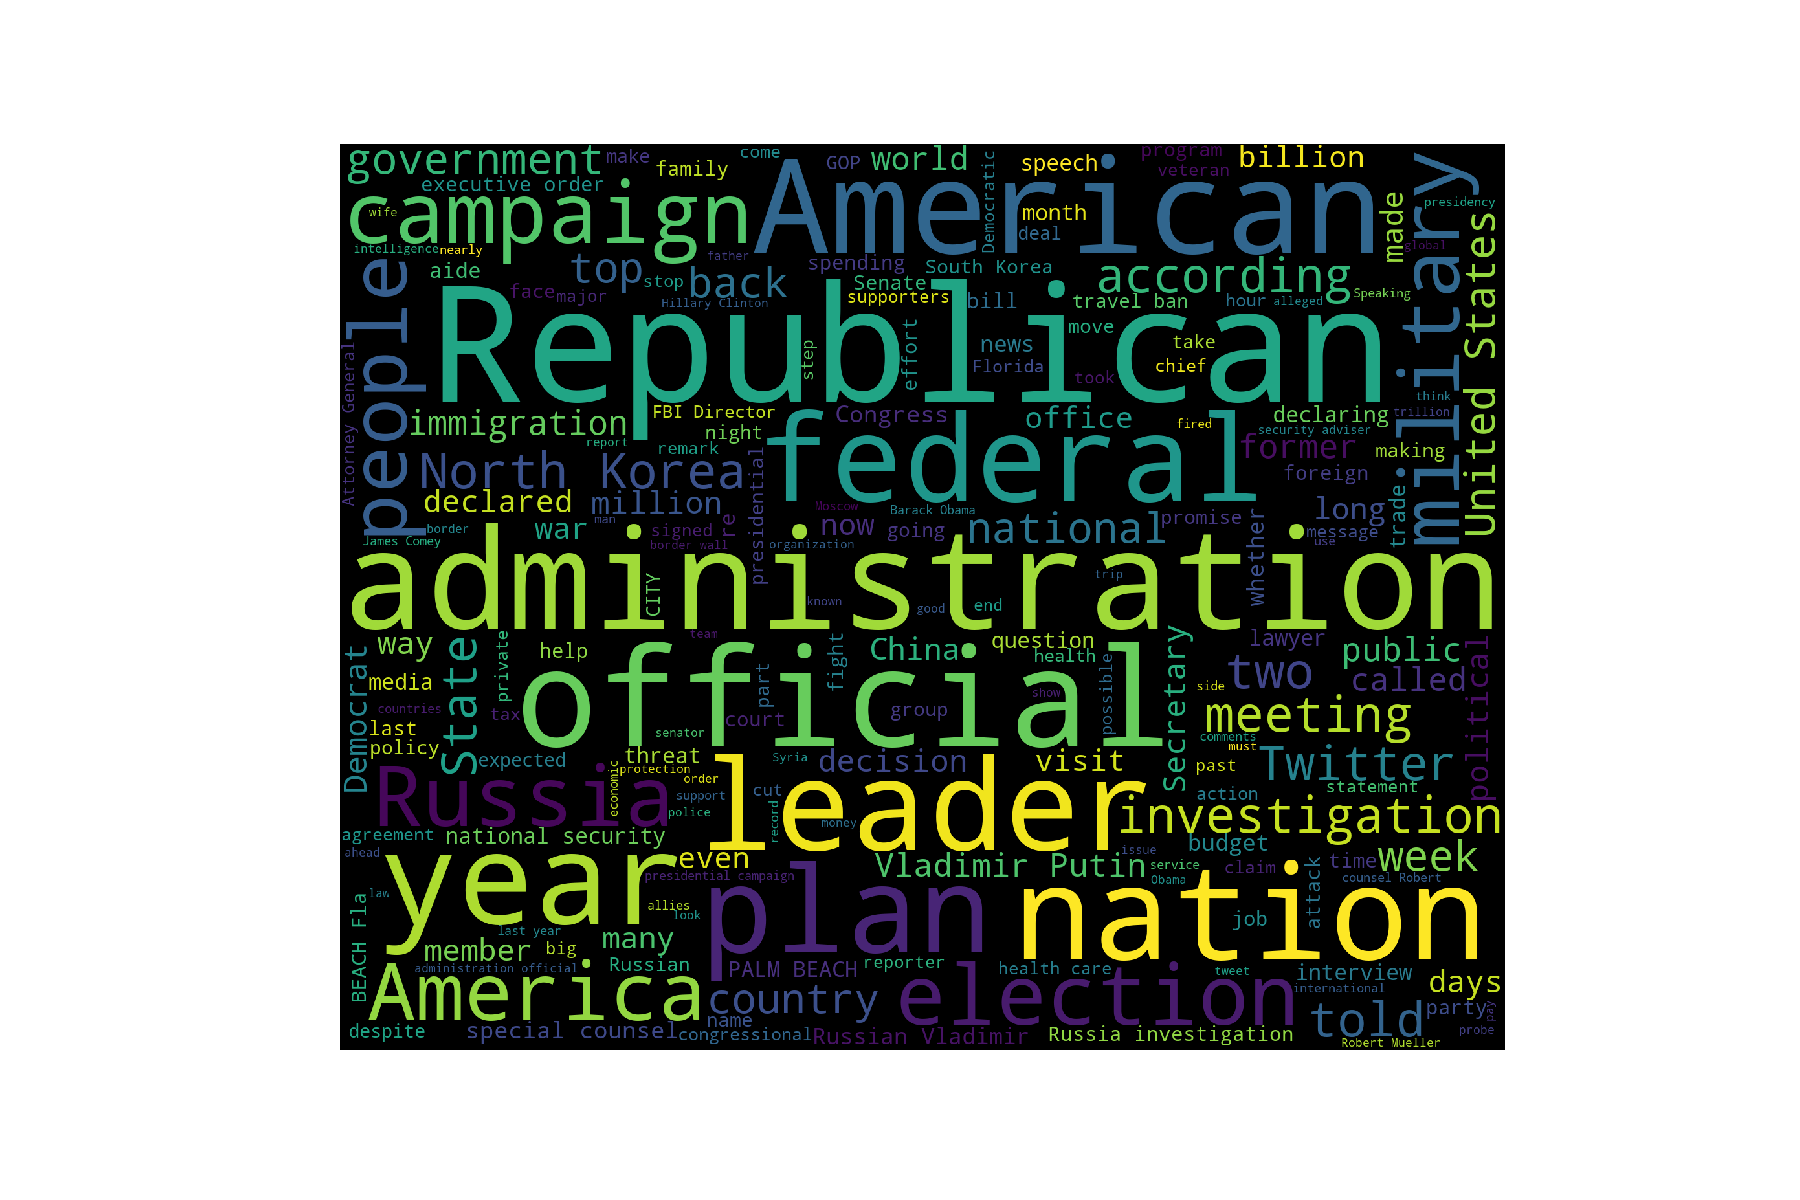
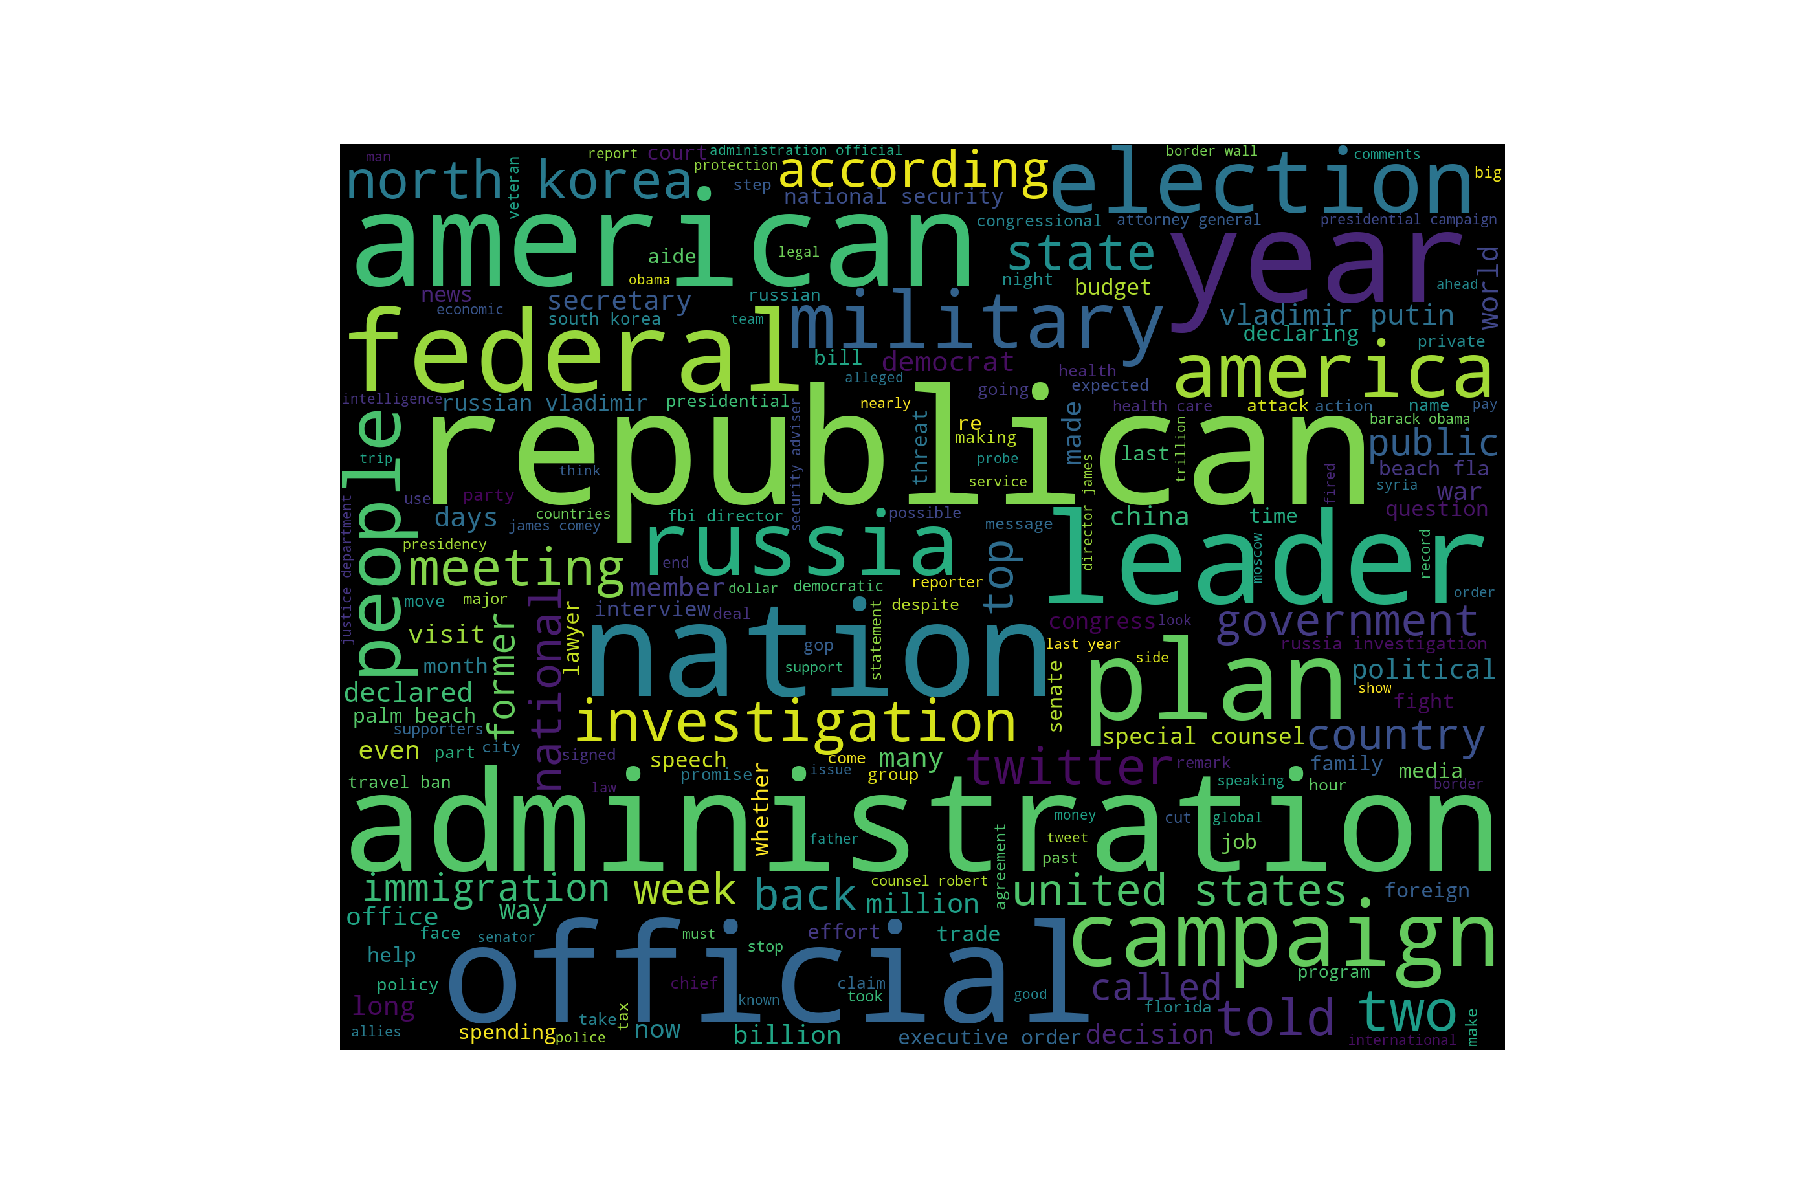
Makes a prediction of whether the trend will be positive or negative, and makes a plot to compare it

Changed region(s): [[0.1867, 0.1233, 0.84, 0.8942]]

diff --git a/ParseRCPForData.py b/ParseRCPForData.py
@@ -18,6 +18,7 @@ from string import punctuation
 from wordcloud import WordCloud, STOPWORDS
 import sys
 import matplotlib.pyplot as plt
+import matplotlib.dates as mdates
 
 config = {}
 execfile("C:\Users\mitch\Desktop\Masters\DataMiningI\DataMiningProject\config.py", config)
@@ -176,6 +177,9 @@ def stop_words_for_wordcloud(stop_words):
     for word in stop_words:
         STOPWORDS.add(word)
 
+def get_words_from_dataframe(data, key):
+    return(clean_punctuation(data[key].add(' ').sum(axis = 0)).lower())
+
 def build_word_cloud(polling_df, out_dir, stop_words):
     stop_words_for_wordcloud(stop_words)
     snippet_words = ''
@@ -184,39 +188,47 @@ def build_word_cloud(polling_df, out_dir, stop_words):
     for row in range(rows):
         filepath = (out_dir + '\\' + my_query +  polling_df.iloc[row]['StartDate']+ '_' + polling_df.iloc[row]['EndDate'] +'.txt')
         data = pd.read_csv(filepath, delimiter="\t")
-        snippet_words += data['Snippet'].add(' ').sum(axis = 0)
-        title_words += data['Title'].add(' ').sum(axis = 0)
+        #snippet_words += data['Snippet'].add(' ').sum(axis = 0)
+        #title_words += data['Title'].add(' ').sum(axis = 0)
+        snippet_words += get_words_from_dataframe(data, 'Snippet')
+        title_words   +=get_words_from_dataframe(data, 'Title')
     
-    snippet_words = clean_punctuation(snippet_words)
-    title_words = clean_punctuation(title_words)    
+    #snippet_words = clean_punctuation(snippet_words)
+    #title_words = clean_punctuation(title_words)    
     save_word_cloud(snippet_words, 'snippet_word_cloud')
     save_word_cloud(title_words, 'title_word_cloud')
+'''
+def load_my_csv(filepath, delimiter):
+    return pd.read_csv(filepath, delimiter="\t")
+'''
+def determine_sentiment_from_words(pos_words, neg_words, words_to_check):
+    ##Less negative words count as positive for trump
+    overall_sentiment = 1
+    for word in words_to_check.split():
+        if word in pos_words:
+            overall_sentiment += 1
+        elif word in neg_words:
+            overall_sentiment -= 1
+    #print(overall_sentiment)
+    return overall_sentiment
 
-if __name__ == "__main__":
-    my_query = 'Donald Trump'
-    url = "https://www.realclearpolitics.com/epolls/other/president_trump_job_approval-6179.html"
-    #out_dir = "C:\Users\mitch\Desktop\Masters\DataMiningI\DataMiningProject\ApprovalPredictions\GoogleRequests"
-    out_dir = "C:\Users\mitch\Desktop\Masters\DataMiningI\DataMiningProject\ApprovalPredictions\TestExtraRequests"
-    polling_data_framename = 'polling_dataframe.txt'
-    #num_requests = 10
-    num_requests = 10
-    collect_new_data = False
-    populate_wordcloud = True
-    
-    stop_words = ['Donald', 'Trump', 'President', 'Washington', 
-                  'President', 'York', 'Jr', 'AP', 'White', 'House',
-                  'Monday', 'Tuesday', 'Wednesday', 
-                  'Thursday', 'Friday', 'Saturday', 'Sunday',
-                  'Jan', 'Feb', 'Mar', 'Apr', 'May', 
-                  'Jun', 'Jul', 'Aug', 'Sep', 'Oct', 
-                  'Nov', 'Dec', 'say', 'said', 'talk', 
-                  'latest', 'sign', 'first', 'wants', 
-                  'day', 'tell', 'second', 'Associated', 
-                  'Press', 'new', 'will', 'call', 
-                  'times', 'local', 'one', 'says', 'calls']
-    ##1st table in page index 0 is only recent polls, 2nd table index 1 is all data.
-    table_index = 1
-    latest_year = '2018'
+def predict_approval_rating_change(polling_data, out_dir, pos_words, neg_words):
+    rows, _ = polling_data.shape
+    sentiment_values = defaultdict(list)
+    for row in range(rows):
+        filepath = (out_dir + '\\' + my_query +  polling_data.iloc[row]['StartDate']+ '_' + polling_data.iloc[row]['EndDate'] +'.txt')
+        data = pd.read_csv(filepath, delimiter="\t")
+        snippet_words = get_words_from_dataframe(data, 'Snippet')
+        title_words   = get_words_from_dataframe(data, 'Title')
+        #polling_data.iloc[row]['SnippetPred'] = determine_sentiment_from_words(pos_words, neg_words, snippet_words)
+        sentiment_values['snippet_words'].append(determine_sentiment_from_words(pos_words, neg_words, snippet_words))
+        #polling_data.iloc[row]['TitlePred'] = determine_sentiment_from_words(pos_words, neg_words, title_words)
+        sentiment_values['title_words'].append(determine_sentiment_from_words(pos_words, neg_words, title_words))
+    return sentiment_values
+
+def Main(my_query, url, out_dir, polling_data_framename, 
+         num_requests, collect_new_data, populate_wordcloud, 
+         positive_words, negative_words, stop_words, table_index, latest_year):
     
     if collect_new_data:
         polling_df = parse_html_for_table(url, table_index)
@@ -237,5 +249,82 @@ if __name__ == "__main__":
     
     if populate_wordcloud:
         build_word_cloud(reuters_df, out_dir, stop_words)
+    
+    reuters_df['ApprovalChange'] = reuters_df.loc[:,'Approve'].diff().fillna(0)
+    reuters_df['ApprovalPosChange'] = (reuters_df.loc[:,'ApprovalChange'] >= 0)
+    #reuters_df['SnippetPred'] = 0
+    #reuters_df['TitlePred'] = 0
+    #temp_df = 
+    sentiment_values = predict_approval_rating_change(reuters_df, out_dir, positive_words, negative_words)
+    reuters_df['SnippetChange'] = sentiment_values['snippet_words']
+    reuters_df['SnippetPosPred'] = (reuters_df.loc[:,'SnippetChange'] >= 0)
+    reuters_df['TitleChange'] = sentiment_values['title_words']
+    reuters_df['TitlePosPred'] = (reuters_df.loc[:,'TitleChange'] >= 0)
+    determine_prediction_accuracy_and_plot(reuters_df, out_dir)
+    return reuters_df #predict_approval_rating_change(reuters_df, out_dir, positive_words, negative_words)
+
+def determine_prediction_accuracy_and_plot(polling_results_df, out_dir):
+    polling_results_df['SnippetAccuracy'] = (polling_results_df.loc[:,'SnippetPosPred'] == polling_results_df.loc[:,'ApprovalPosChange'])
+    polling_results_df['TitleAccuracy'] = (polling_results_df.loc[:,'TitlePosPred'] == polling_results_df.loc[:,'ApprovalPosChange'])
+    plot_accuracy_data(polling_results_df, out_dir)
+    
+def plot_accuracy_data(polling_results_df, out_dir):
+    x = [datetime.strptime(d,'%Y-%m-%d').date() for d in polling_results_df['StartDate']]
+    plt.gca().xaxis.set_major_formatter(mdates.DateFormatter('%m/%d/%Y'))
+    #plt.gca().xaxis.set_major_locator(mdates.DayLocator())
+    plt.plot(x,modified_polling_df['TitleAccuracy'])
+    plt.gcf().autofmt_xdate()
+    plt.title('Using Article Title Prediction Accuracy')
+    plt.savefig(out_dir + '//titleaccuracyplot.png', dpi=300)
+    plt.plot(x,modified_polling_df['SnippetAccuracy'])
+    plt.title('Comparing Title and Snippet Prediction Accuracy')
+    plt.savefig(out_dir + '//snippet_and_titleaccuracyplot.png', dpi=300)
+    plt.clf()
+    plt.title('Using Snippet Prediction Accuracy')
+    plt.plot(x,modified_polling_df['SnippetAccuracy'])
+    plt.savefig(out_dir + '//snippetaccuracyplot.png', dpi=300)
+    
+if __name__ == "__main__":
+    my_query = 'Donald Trump'
+    url = "https://www.realclearpolitics.com/epolls/other/president_trump_job_approval-6179.html"
+    #out_dir = "C:\Users\mitch\Desktop\Masters\DataMiningI\DataMiningProject\ApprovalPredictions\GoogleRequests"
+    out_dir = "C:\Users\mitch\Desktop\Masters\DataMiningI\DataMiningProject\ApprovalPredictions\TestExtraRequests"
+    polling_data_framename = 'polling_dataframe.txt'
+    #num_requests = 10
+    num_requests = 10
+    collect_new_data = False
+    populate_wordcloud = False
+    positive_words = ['deal', 'iran', 'rally', 
+                      'aid', 'won', 'top', 'mexico', 
+                      'taxes', 'tax', 'plan', 'korea', 'military',
+                      'leader', 'presidential', 'clinton', 'china', 
+                      'trade', 'health','war', 'international', 'global', 'credit']
+    negative_words = ['investigation', 'porn', 'russia', 
+                      'russian', 'fbi', 'counsel', 'special', 'russian',
+                      'putin', 'election', 'attorney', 'mueller',
+                      'twitter', 'palm', 'probe', 'flordia',
+                      'comey', 'fact', 'lawyer', 'stormy', 'flynn', 'tweet']
+    
+    stop_words = ['Donald', 'Trump', 'President', 'Washington', 
+                  'President', 'York', 'Jr', 'AP', 'White', 'House',
+                  'Monday', 'Tuesday', 'Wednesday', 
+                  'Thursday', 'Friday', 'Saturday', 'Sunday',
+                  'Jan', 'Feb', 'Mar', 'Apr', 'May', 
+                  'Jun', 'Jul', 'Aug', 'Sep', 'Oct', 
+                  'Nov', 'Dec', 'say', 'said', 'talk', 
+                  'latest', 'sign', 'first', 'wants', 
+                  'day', 'tell', 'second', 'Associated', 
+                  'Press', 'new', 'will', 'call', 
+                  'times', 'local', 'one', 'says', 'calls']
+    ##1st table in page index 0 is only recent polls, 2nd table index 1 is all data.
+    table_index = 1
+    latest_year = '2018'
+    
+    modified_polling_df = Main(my_query, url, out_dir, polling_data_framename, 
+                               num_requests, collect_new_data, populate_wordcloud, 
+                               positive_words, negative_words, stop_words, table_index, latest_year)
+
+              
+    
     ## to read back in the data we write: data = pd.read_csv(filepath, delimiter="\t")
     
